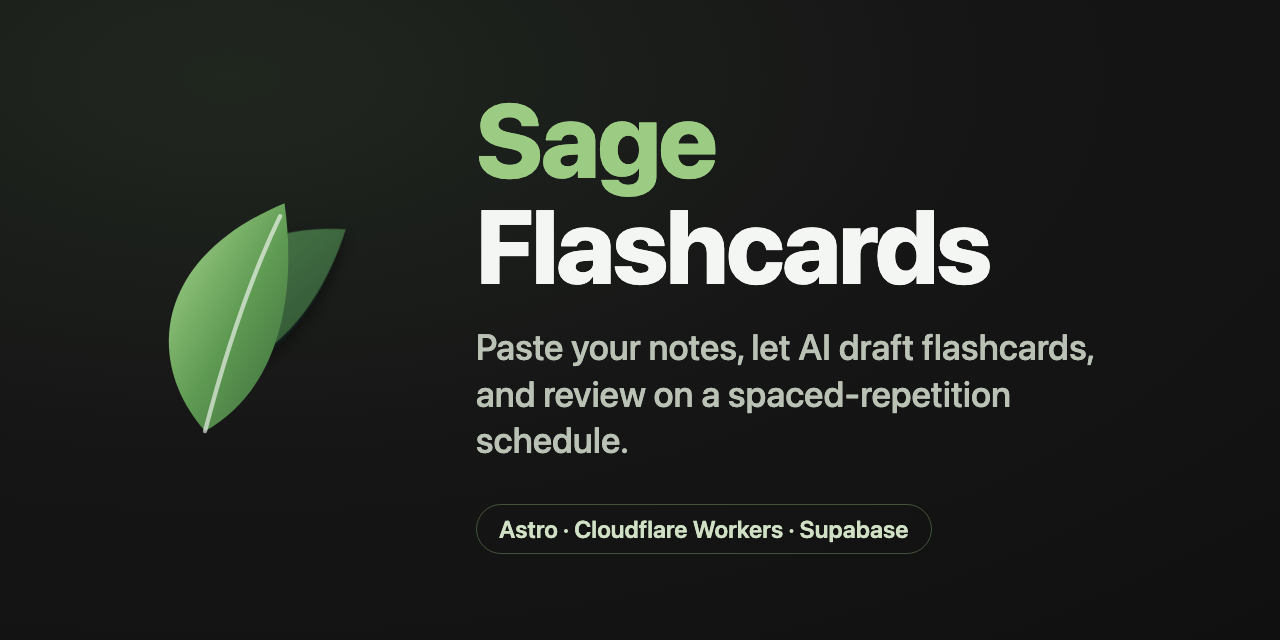
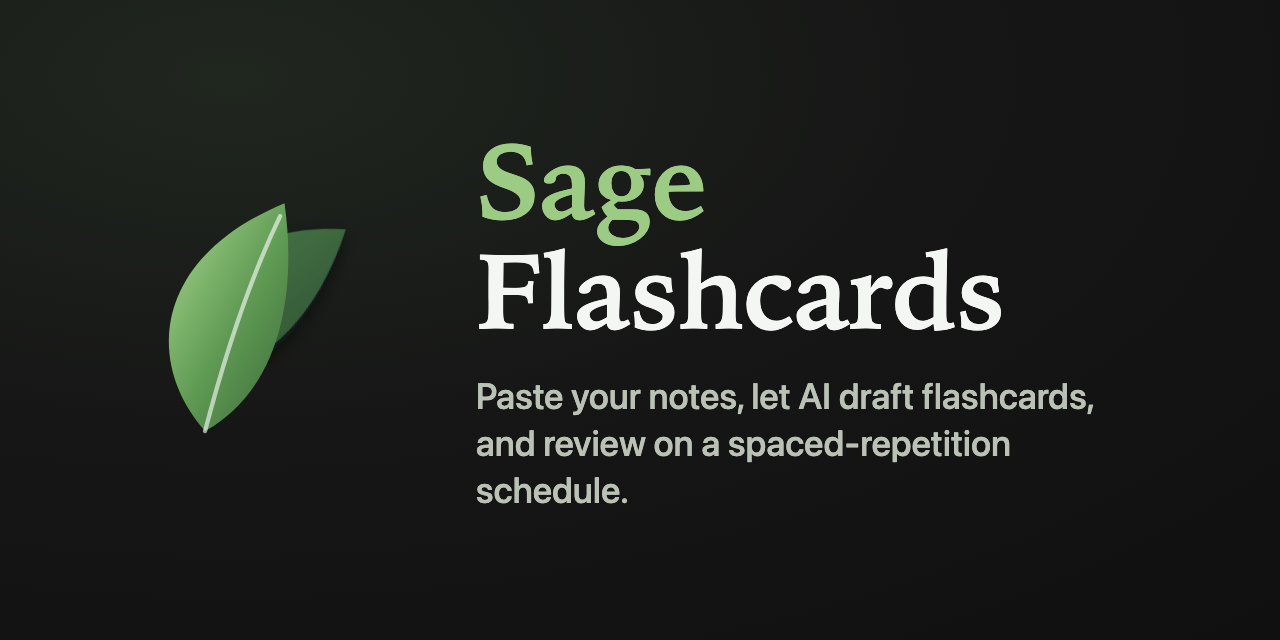
design(brand): accent "Sage" in wordmark, italic hero accent, refine og card
- Wordmark: wrap "Sage" in .wm-sage so it renders in --primary everywhere the
  logo appears (header, landing, all auth pages) — matches the og card.
- Landing hero: the h1 accent word ("lasts") is now italic.
- og-image: serif wordmark (matches the site's --serif) and dropped the
  "Astro · Cloudflare · Supabase" tech chip.

Changed region(s): [[0.375, 0.1562, 0.875, 0.5625], [0.375, 0.5938, 0.875, 0.7188], [0.375, 0.75, 0.7188, 0.8438]]

diff --git a/src/styles/global.css b/src/styles/global.css
@@ -245,6 +245,10 @@
     letter-spacing: -0.01em;
     color: var(--text);
   }
+  /* "Sage" in the wordmark picks up the brand accent (matches the og card). */
+  .brand .wordmark .wm-sage {
+    color: var(--primary);
+  }
   .app-nav {
     display: flex;
     gap: 4px;
@@ -1300,6 +1304,7 @@
   }
   .hero h1 .accent {
     color: var(--accent-deep);
+    font-style: italic;
   }
   .hero p.lede {
     font-size: clamp(1.05rem, 2.4vw, 1.25rem);